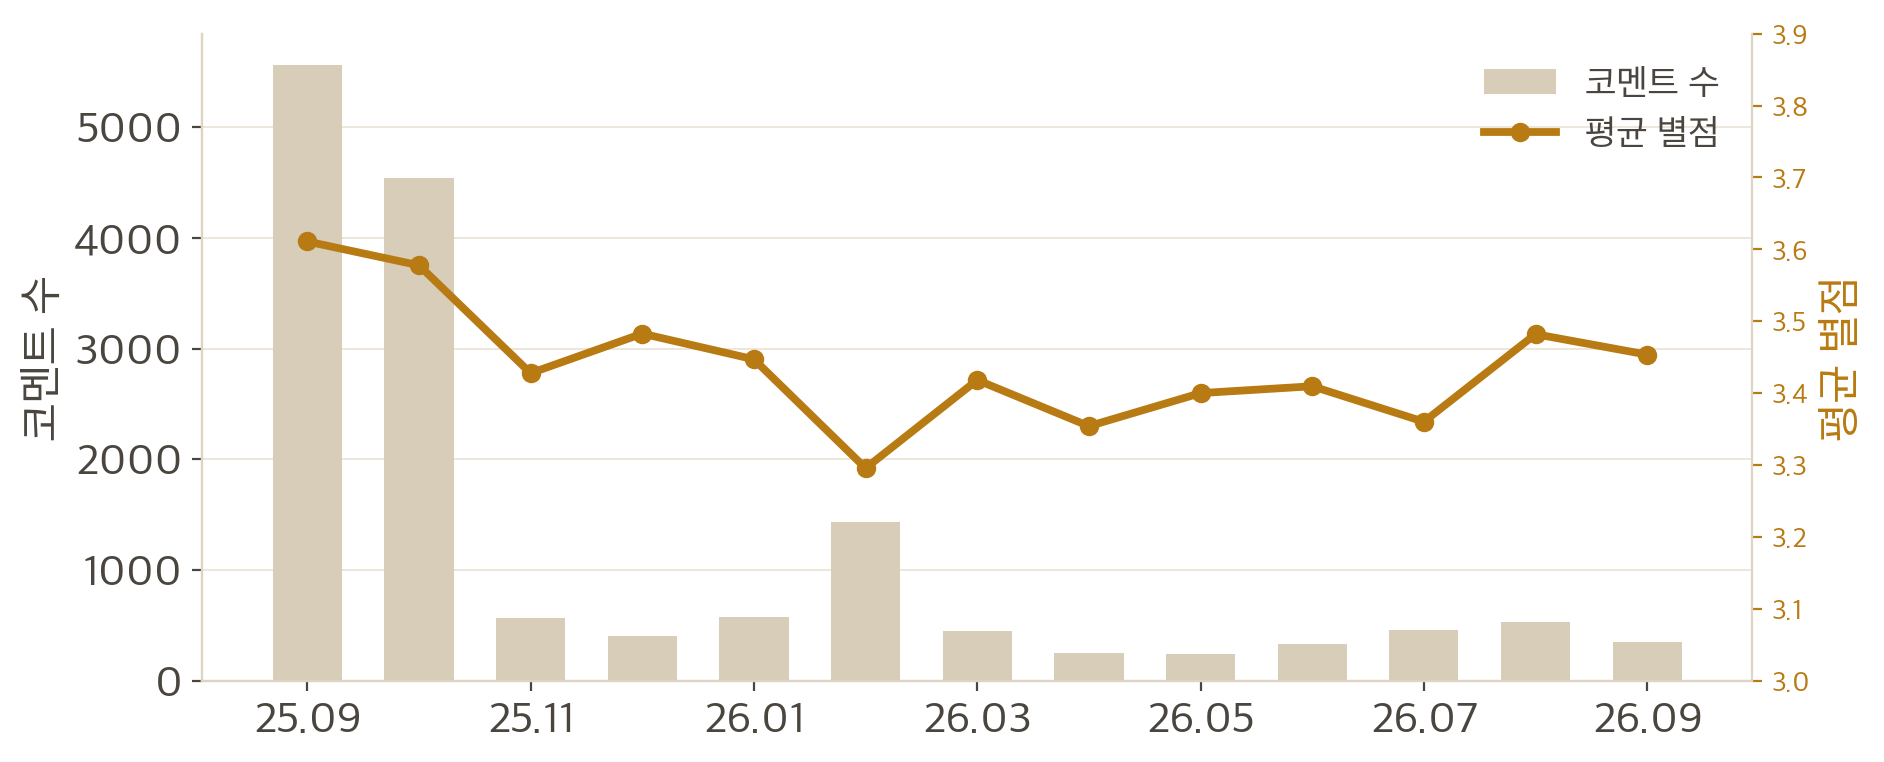
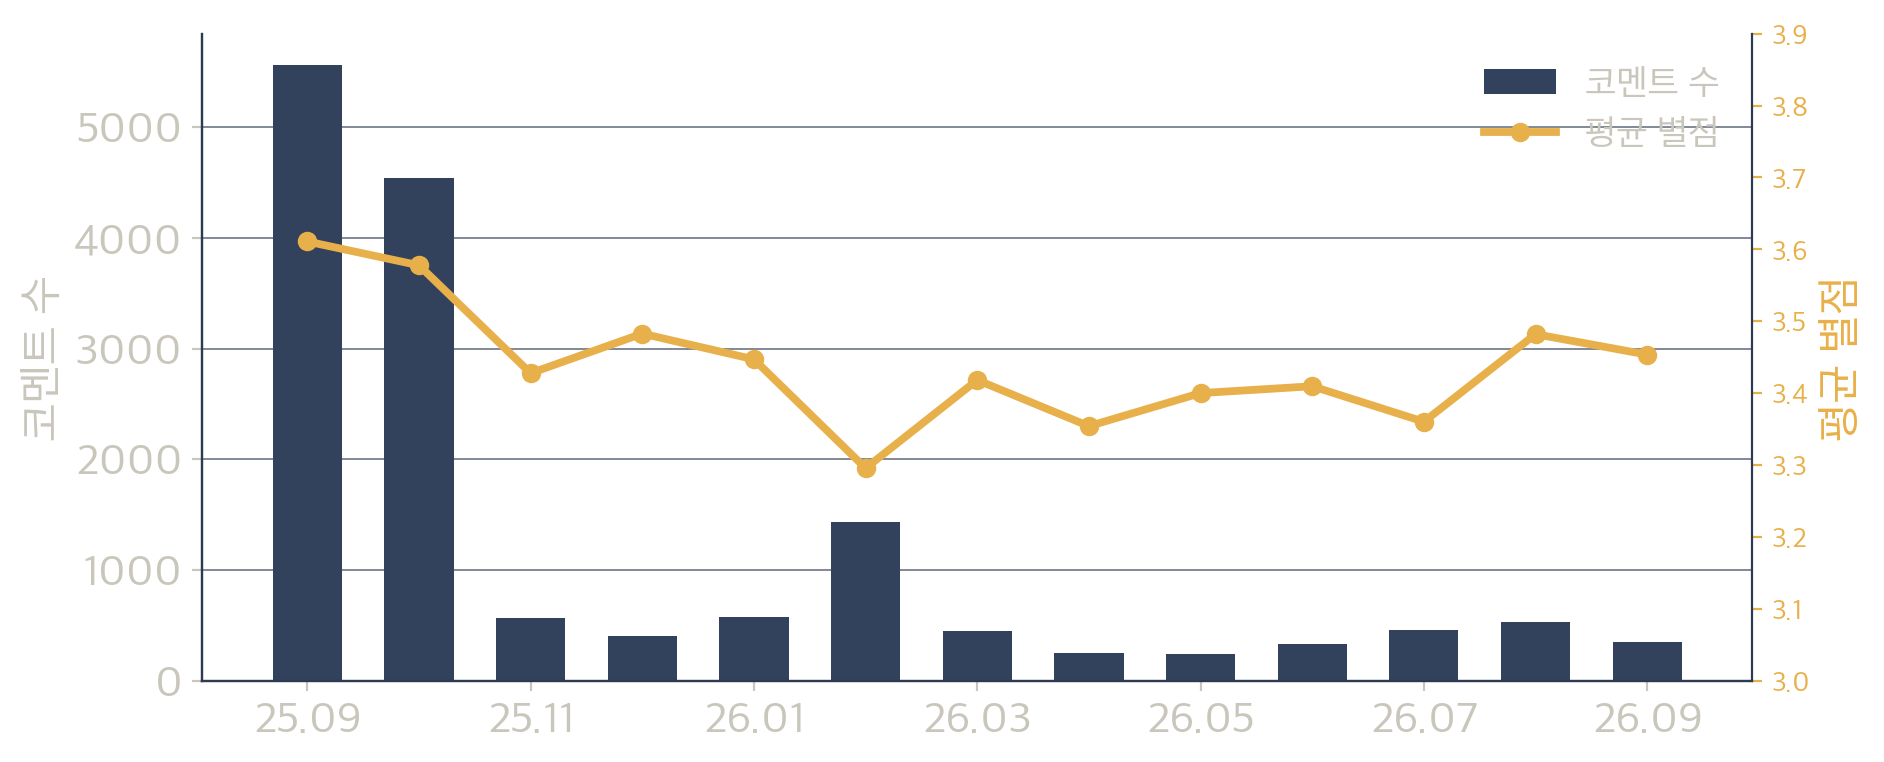
Switch week-05 content slides to deep navy
- Use #101a2b with cream ink so slides 2-16 match the cover poster
- Drop the light-theme chrome toggle; dark chrome now covers every slide
- Regenerate charts on the navy palette with matching segment gaps

diff --git a/docs/week-05-no-other-choice-reviews/index.html b/docs/week-05-no-other-choice-reviews/index.html
@@ -50,30 +50,18 @@
   .progress{position:fixed;top:0;left:0;height:3px;background:linear-gradient(90deg,var(--accent),var(--red));z-index:50;width:0}
   .hint{position:fixed;bottom:14px;left:50%;transform:translateX(-50%);z-index:40;font-family:var(--mono);font-size:12px;color:var(--muted);letter-spacing:.12em}
 
-  /* light chrome while a content slide is active */
-  .film,.topbar,.bottombar{transition:background .45s ease,color .45s ease,border-color .45s ease}
-  body.light .topbar{color:#7a7266;border-bottom-color:rgba(26,24,21,.14);background:linear-gradient(#f7f2e8 70%,rgba(247,242,232,0))}
-  body.light .topbar .dot{background:#c8402a}
-  body.light .bottombar{color:#7a7266}
-  body.light .counter b{color:#1a1815}
-  body.light .hint{color:#7a7266}
-  body.light .film{background:#efe8da;border-color:rgba(26,24,21,.07)}
-  body.light .film::before{background-image:repeating-linear-gradient(to bottom,rgba(26,24,21,.18) 0 14px,transparent 14px 38px)}
-  body.light .progress{background:linear-gradient(90deg,#c08a2f,#c8402a)}
-  body.light::before{opacity:.05;mix-blend-mode:multiply}
-  body.light::after{background:radial-gradient(130% 95% at 50% 40%,transparent 70%,rgba(60,45,20,.08) 100%)}
 
   .stage{position:absolute;inset:0}
   .slide{position:absolute;inset:0;display:flex;flex-direction:column;justify-content:center;
     padding:70px calc(var(--strip) + 4.5vw) 66px;opacity:0;visibility:hidden;overflow:hidden;transition:opacity .5s ease,visibility .5s}
   .slide.active{opacity:1;visibility:visible}
   /* light slides (2–16) — cover keeps the dark poster */
-  .slide:not(.poster-bg){background:#f7f2e8;color:var(--ink);
-    --ink:#1a1815; --ink-soft:#4a463f; --muted:#7a7266; --line:rgba(26,24,21,.14);
-    --panel:#fffefa; --panel-2:#f8f1e3;
-    --accent:#a8690c; --accent-solid:#e8b04b;
-    --blue:#2f6bd8; --red:#c8402a;}
-  .slide:not(.poster-bg) .pcard{box-shadow:0 1px 2px rgba(74,58,30,.07)}
+  .slide:not(.poster-bg){background:#101a2b;color:var(--ink);
+    --ink:#ede9df; --ink-soft:#c9c6bc; --muted:#9aa2b1; --line:rgba(255,255,255,.13);
+    --panel:#172132; --panel-2:#111a29;
+    --accent:#e8b04b; --accent-solid:#e8b04b;
+    --blue:#7fa9ff; --red:#f07a63;}
+  .slide:not(.poster-bg) .pcard{box-shadow:0 1px 2px rgba(0,0,0,.25)}
   .wrap{max-width:1360px;width:100%;margin:0 auto}
   [data-rise]{opacity:0;transform:translateY(24px)}
 
@@ -142,7 +130,7 @@
   .figcap{margin-top:10px;text-align:center;font-family:var(--mono);font-size:12.5px;letter-spacing:.04em;color:var(--muted)}
   .poster-figure{margin:0;justify-self:end;align-self:center}
   .poster-figure img{display:block;height:min(70vh,660px);width:auto;border-radius:5px;
-    box-shadow:0 24px 48px -20px rgba(60,42,14,.42),0 2px 8px rgba(60,42,14,.10)}
+    box-shadow:0 24px 48px -20px rgba(0,0,0,.55),0 2px 8px rgba(0,0,0,.28)}
   .split{display:grid;grid-template-columns:.92fr 1.08fr;gap:4vw;align-items:center}
   .split.rev{grid-template-columns:1.08fr .92fr}
 
@@ -475,7 +463,6 @@
     const cur=slides[idx],nxt=slides[n];
     cur.classList.remove('active'); reset(cur);
     idx=n; nxt.classList.add('active'); reset(nxt); animate(nxt);
-    document.body.classList.toggle('light', idx>0);
     progress.style.width=(idx/(total-1)*100)+'%';
     counter.innerHTML='<b>'+pad(idx+1)+'</b> / '+pad(total);
     setTimeout(()=>busy=false,reduce?50:240);

diff --git a/week-05-no-other-choice-reviews/make_charts.py b/week-05-no-other-choice-reviews/make_charts.py
@@ -33,16 +33,16 @@ if LIGHT:
     ORANGE = "#c9773a"
     BAR_GRAY = "#d8cdb8"
 else:
-    BG = "#0d1524"
-    INK = "#f2eee4"
-    INK_SOFT = "#cfccc2"
+    BG = "#101a2b"
+    INK = "#ede9df"
+    INK_SOFT = "#c9c6bc"
     MUTED = "#9aa2b1"
-    LINE = "#33415c"
+    LINE = "#2c3a52"
     GOLD = "#e8b04b"
-    BLUE = "#6ea0ff"
-    RED = "#e4664d"
+    BLUE = "#7fa9ff"
+    RED = "#f07a63"
     ORANGE = "#e8965a"
-    BAR_GRAY = "#3a4a68"
+    BAR_GRAY = "#33425c"
 
 for fam in ["Apple SD Gothic Neo", "AppleGothic", "NanumGothic", "Noto Sans CJK KR"]:
     try:
